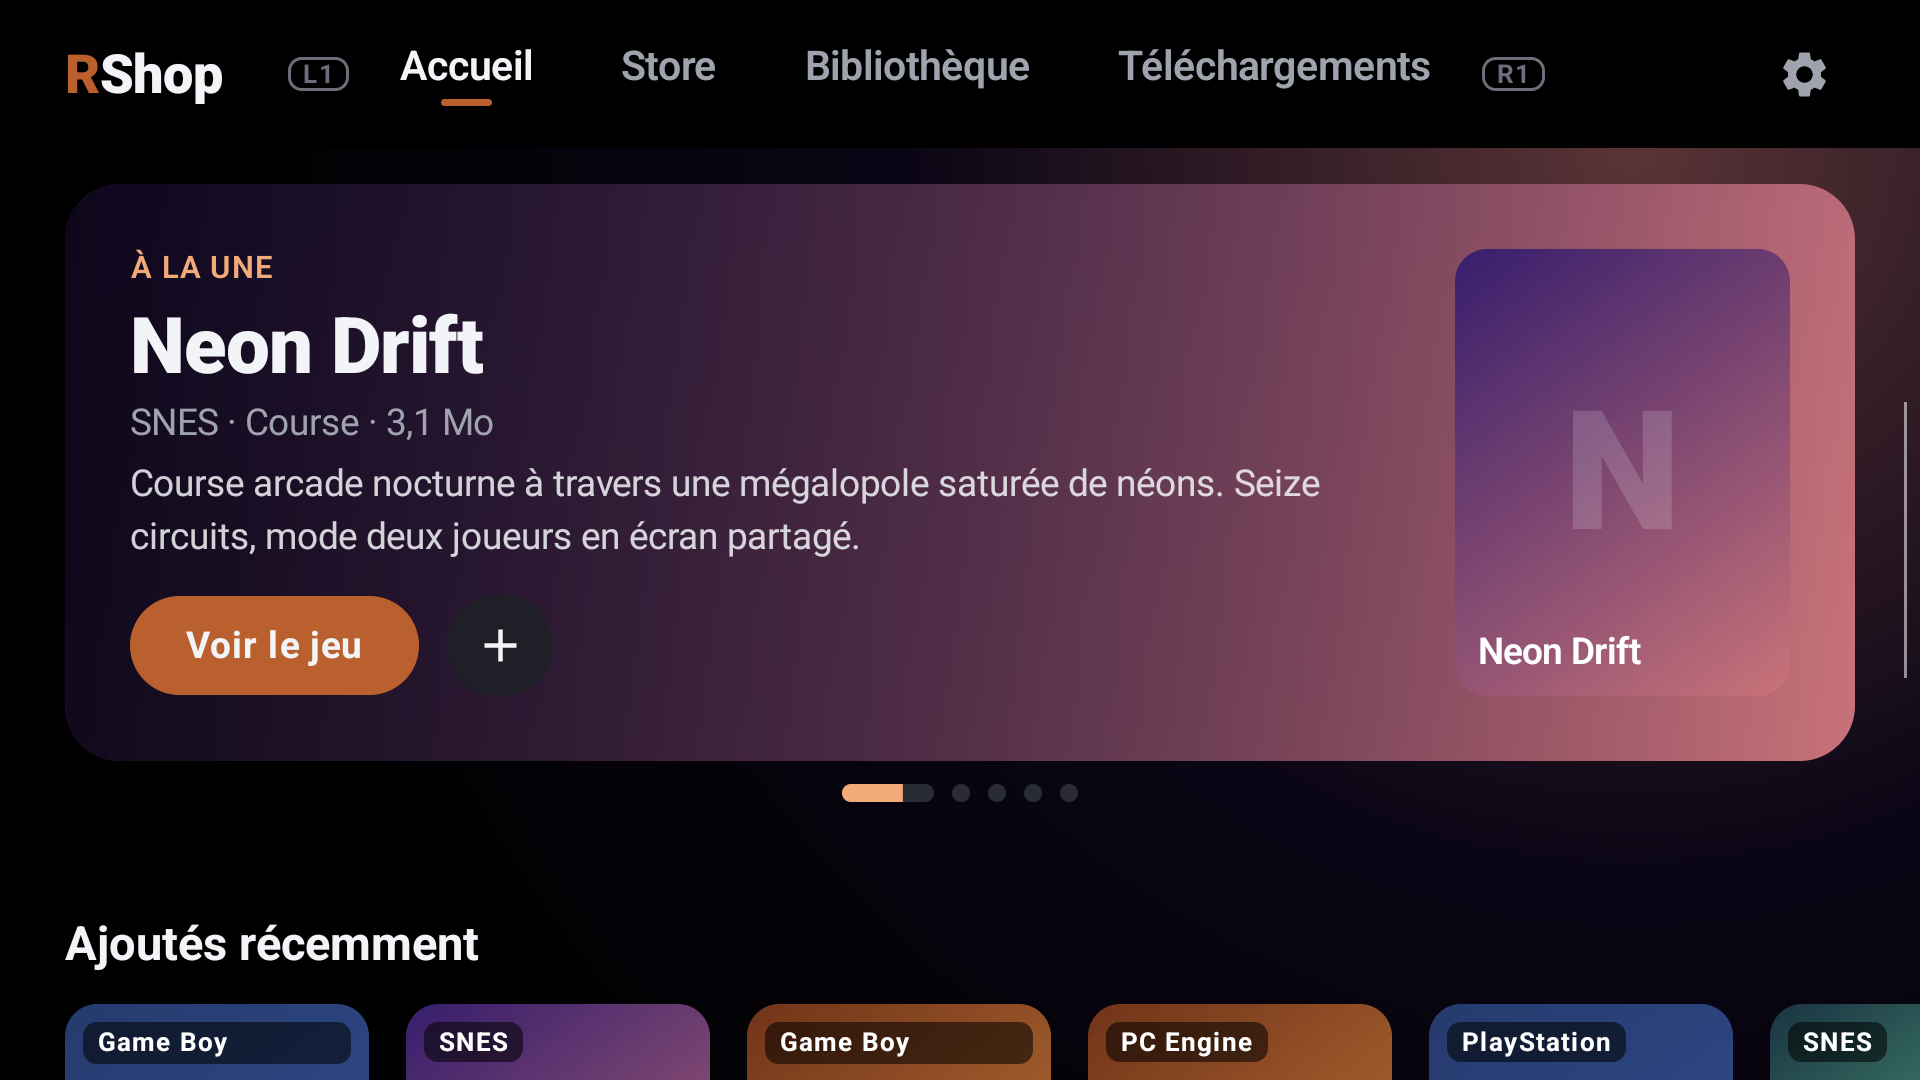
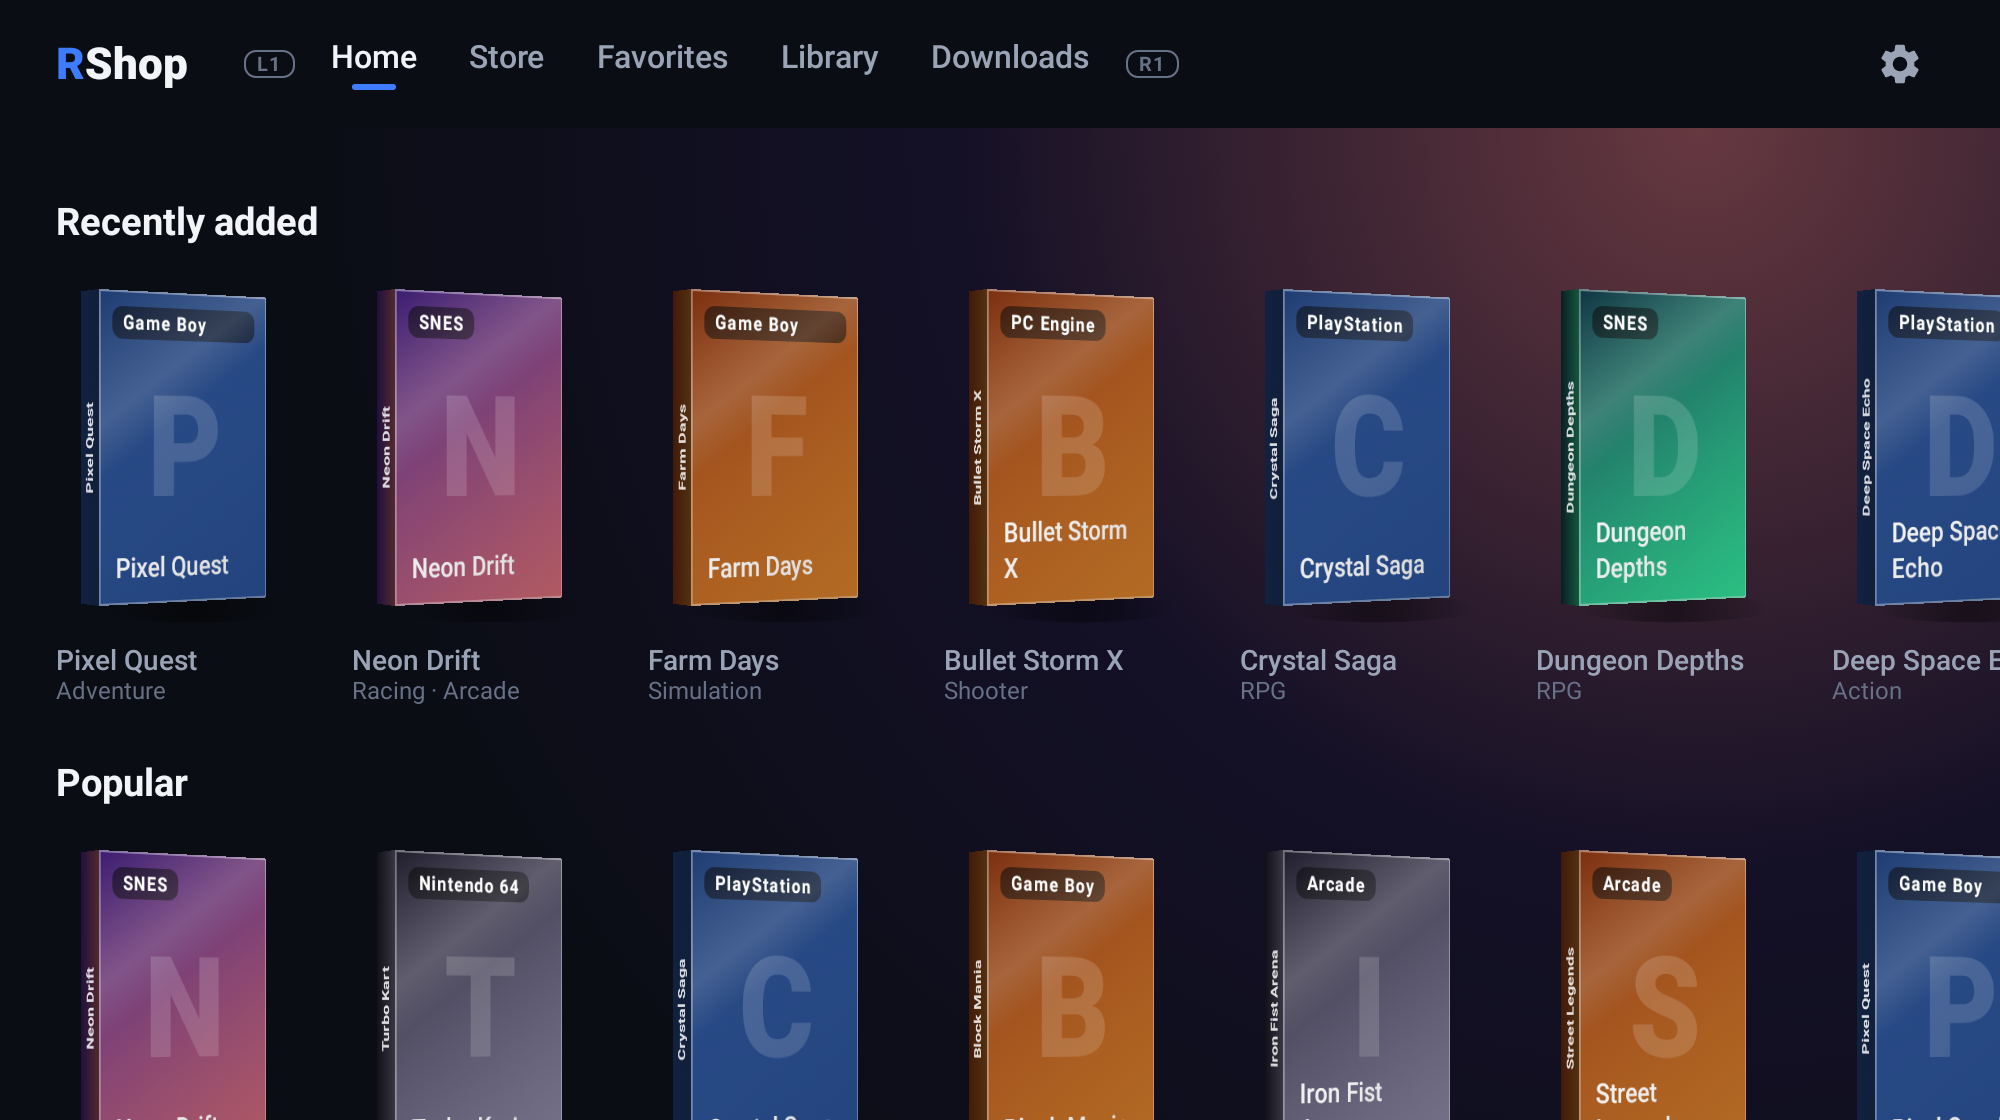
README screenshots: current UI (Night, 3D boxes, English), rendered without a device
A test draws the screens shown in the README into app/build/readme-screenshots.

diff --git a/app/src/test/java/com/rshop/navigation/ReadmeScreenshotsTest.kt b/app/src/test/java/com/rshop/navigation/ReadmeScreenshotsTest.kt
@@ -1,0 +1,135 @@
+package com.rshop.navigation
+
+import androidx.compose.ui.graphics.asAndroidBitmap
+import androidx.compose.ui.test.captureToImage
+import androidx.compose.ui.test.junit4.createAndroidComposeRule
+import androidx.compose.ui.test.onNodeWithTag
+import androidx.compose.ui.test.onNodeWithText
+import androidx.compose.ui.test.onRoot
+import androidx.compose.ui.test.performClick
+import androidx.compose.ui.test.performScrollToIndex
+import androidx.test.core.app.ApplicationProvider
+import androidx.work.testing.WorkManagerTestInitHelper
+import com.rshop.MainActivity
+import com.rshop.data.demo.DemoCatalogSeeder
+import com.rshop.data.source.SourceRepository
+import com.rshop.domain.model.CoverStyle
+import com.rshop.domain.model.ThemeBase
+import com.rshop.domain.model.ThemeSettings
+import com.rshop.scraper.config.ListRules
+import com.rshop.scraper.config.ScraperConfig
+import com.rshop.ui.home.HOME_LIST_TAG
+import com.rshop.ui.theme.ActiveTheme
+import com.rshop.ui.theme.ThemePalettes
+import dagger.hilt.android.testing.HiltAndroidRule
+import dagger.hilt.android.testing.HiltAndroidTest
+import dagger.hilt.android.testing.HiltTestApplication
+import kotlinx.coroutines.runBlocking
+import org.junit.Before
+import org.junit.Rule
+import org.junit.Test
+import org.junit.runner.RunWith
+import org.robolectric.RobolectricTestRunner
+import org.robolectric.annotation.Config
+import org.robolectric.annotation.GraphicsMode
+import java.io.File
+import javax.inject.Inject
+
+/**
+ * Draws the screens shown in the README (demo catalogue, English, Night theme, 3D boxes) into
+ * build/readme-screenshots: no device needed. Copy the PNGs to docs/screenshots when they change.
+ */
+@HiltAndroidTest
+@RunWith(RobolectricTestRunner::class)
+@GraphicsMode(GraphicsMode.Mode.NATIVE)
+@Config(application = HiltTestApplication::class, sdk = [34], qualifiers = "en-w1000dp-h560dp-xhdpi")
+class ReadmeScreenshotsTest {
+
+    @get:Rule(order = 0)
+    val hiltRule = HiltAndroidRule(this)
+
+    @get:Rule(order = 1)
+    val noAnimations = object : org.junit.rules.ExternalResource() {
+        override fun before() {
+            android.provider.Settings.Global.putFloat(
+                ApplicationProvider.getApplicationContext<android.content.Context>().contentResolver,
+                android.provider.Settings.Global.ANIMATOR_DURATION_SCALE,
+                0f,
+            )
+            WorkManagerTestInitHelper.initializeTestWorkManager(ApplicationProvider.getApplicationContext())
+        }
+    }
+
+    @Suppress("DEPRECATION")
+    @get:Rule(order = 2)
+    val composeRule = createAndroidComposeRule<MainActivity>()
+
+    @Inject
+    lateinit var demoCatalogSeeder: DemoCatalogSeeder
+
+    @Inject
+    lateinit var sourceRepository: SourceRepository
+
+    @Before
+    fun setUp() {
+        hiltRule.inject()
+        runBlocking {
+            demoCatalogSeeder.seedIfEmpty()
+        }
+        composeRule.runOnUiThread {
+            ActiveTheme.settings = ThemeSettings(
+                base = ThemeBase.Night,
+                accent = ThemePalettes.recommendedAccent(ThemeBase.Night) ?: ActiveTheme.settings.accent,
+                coverStyle = CoverStyle.Box3d,
+            )
+        }
+        composeRule.waitForIdle()
+    }
+
+    private fun shoot(name: String) {
+        composeRule.waitForIdle()
+        val out = File("build/readme-screenshots").apply { mkdirs() }
+        val bitmap = composeRule.onRoot().captureToImage().asAndroidBitmap()
+        File(out, "$name.png").outputStream().use { bitmap.compress(android.graphics.Bitmap.CompressFormat.PNG, 100, it) }
+    }
+
+    @Test
+    fun home() {
+        shoot("home")
+        composeRule.onNodeWithTag(HOME_LIST_TAG).performScrollToIndex(1)
+        shoot("home-shelves")
+    }
+
+    @Test
+    fun details() {
+        composeRule.onNodeWithText("View game").performClick()
+        shoot("details")
+    }
+
+    @Test
+    fun sources() {
+        // The demo games belong to the source "demo": the card counts them. Saved here only, so the game
+        // pages of the other screens do not try to reach a site.
+        runBlocking {
+            sourceRepository.save(
+                ScraperConfig(
+                    id = "demo",
+                    name = "Homebrew Hub",
+                    baseUrl = "https://homebrew.example.org/",
+                    listUrl = "/games?page={page}",
+                    list = ListRules(item = listOf("div.card")),
+                ),
+            )
+        }
+        composeRule.onNodeWithTag("tab_Settings").performClick()
+        composeRule.onNodeWithText("Catalogue sources").performClick()
+        shoot("sources")
+    }
+
+    @Test
+    fun appearance() {
+        composeRule.onNodeWithTag("tab_Settings").performClick()
+        composeRule.onNodeWithText("Appearance").performClick()
+        shoot("appearance")
+    }
+}
